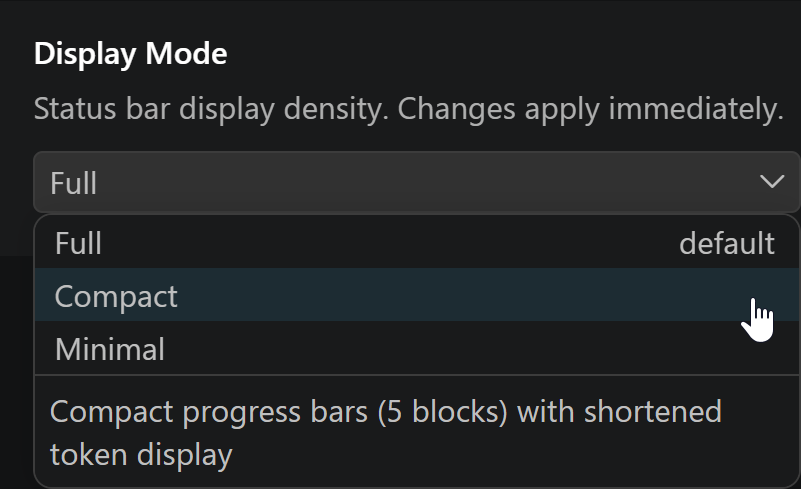
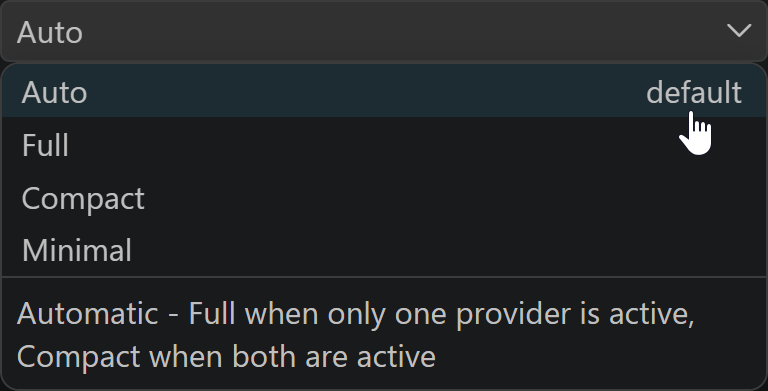
docs: friendlier README tone, slim CLAUDE.md to 40 lines, update display mode screenshot
README.md: drops technical CLI path language from the top description
("~/.claude/ or ~/.codex/" references gone) in favor of user-facing
wording - "three for Claude, three for Codex - all enabled out of the
box", "only shows widgets for the providers you actually use",
"Hidden when a provider isn't set up yet". Display Modes intro,
Provider Toggles, How It Works, and Reset WAT321 sections all get the
same friendlier voice pass. No technical content added, just tone.

CLAUDE.md: slimmed from 55 lines to 40 lines. Architecture section
migrated to AIDOCS/WD_WAT321_MEMORY_EXTENDED.md which is now the
canonical reference source for architecture, shared services, display
modes, build pipeline, and all polling-subsystem detail. CLAUDE.md
retains only the rules, principles, and hard conventions a new session
needs to read first.

images/screenshots/DISPLAY_MODE_SETTINGS.png: updated screenshot now
shows all four display modes (Auto default highlighted, plus Full,
Compact, Minimal) matching the post-v1.0.8 settings UI.

diff --git a/CLAUDE.md b/CLAUDE.md
@@ -2,8 +2,9 @@
 
 ## Read Order
 1. This file (rules and conventions)
-2. `AIDOCS/WD_WAT321_MEMORY_EXTENDED.md` (architecture, references, constraints)
-3. `WDDOCS/WAT321_FRAMEWORK/WAT321_FRAMEWORK_README.md` (framework details)
+2. `AIDOCS/WD_WAT321_MEMORY_EXTENDED.md` (architecture, file layout, shared services, display modes, all reference material)
+3. `WDDOCS/WAT321_FRAMEWORK/WAT321_FRAMEWORK_README.md` (per-tool framework detail)
+4. `AIDOCS/WD_WAT321_SESSION_HANDOFF.md` (current dev state)
 
 ## Project
 VS Code extension providing real-time AI usage status bar widgets (Claude + Codex).
@@ -12,43 +13,28 @@ VS Code extension providing real-time AI usage status bar widgets (Claude + Code
 - **Read-only** - never modify user files. Only writes are disposable caches, claims, and stamps in `~/.wat321/`
 - **No data collection** - no telemetry, no tracking, no analytics. All data stays local
 - **Never affect usage limits** - usage widgets hit a read-only stats endpoint. Session tokens read local files only
-- **Visible when relevant, hidden when not** - show a friendly status on error, but fully hide widgets for a provider whose CLI is not installed. No "Not Connected" placeholders for missing CLIs
+- **Visible when relevant, hidden when not** - show a friendly status on error, but fully hide widgets for a provider whose CLI is not installed
 - **Never imply action** - no login prompts, no CLI commands, no "click here to fix". All errors are passive and self-healing
 - **Auto-reconnect** - every error state recovers automatically. The user never needs to do anything
 - **Last known good** - on transient failures, keep showing cached data. Only surface errors after repeated failures
-- **Zero bloat** - all stored files under `~/.wat321/` (shared usage caches, atomic claim files) are tiny, disposable, and removable via the clear command. They are recreated automatically on the next poll
 - **Fail silently on first attempt** - absorb the first transient error, surface it only if it persists
+- **Zero bloat** - everything WAT321 writes is tiny, disposable, and clearable via the reset command
 
 ## Key Rules
-- **No user file modifications** - never write to ~/.claude/, ~/.codex/, or any user config
+- **No user file modifications** - never write to `~/.claude/`, `~/.codex/`, or any user config
 - **API rate limiting** - keep polling >=122s, cooldown >=61s. Never bypass cooldown
 - **No bundler** - tsc only, no external runtime deps
 - **CHANGELOG.md must be updated before any version bump.** Use `/wat321-publish` skill
-- **Commit messages are descriptive, not versioned.** Only changelog and version bump commits mention the version
+- **Commit messages are descriptive, not versioned.** Only changelog and version-bump commits mention the version
 - **No em dashes** - use hyphens throughout
 - **Error messages are passive** - friendly, short, no jargon
-
-## Architecture
-- Each tool gets its own folder under `src/`
-- Shared services in `src/shared/` - one polling path per API provider
-- All six tools active: Claude (5hr, weekly, session tokens) + Codex (5 hour, weekly, session tokens)
-- Settings gate: `wat321.enableClaude` (default true), `wat321.enableCodex` (default true)
-- Widgets are fully hidden when the corresponding CLI (`~/.claude/` or `~/.codex/`) is not installed. Exponential discovery backoff (60s -> 5 min -> 15 min) detects later installs
-- Display modes: Auto / Full / Compact / Minimal (instant switching via rebroadcast). Auto picks Full when one provider is active, Compact when both are active
-- Cross-instance coordination via `src/shared/coordinator.ts`: shared JSON cache + atomic claim file per provider under `~/.wat321/`. Only one window fetches per poll cycle; others adopt the cached state
-- Per-state cache freshness: long window for `ok`/`rate-limited`, short window for auth/error states so recovery propagates quickly across windows
-- Dynamic enable/disable - no window reload needed
-- All widgets are display-only - no click commands (except clear settings)
-- Session token tooltips use `isTrusted: false` for security
-- Widget constructors do NOT call `item.show()` - the first state delivered via `subscribe()` decides visibility, so missing-CLI widgets never flash on startup
-- Build pipeline: clean -> lint -> tsc
 
 ## Conventions
 - `package.json` `displayName` is `"WAT321"` only - never add "Willy's AI Tools" or any suffix (gets truncated in VS Code UI)
 - AIDOCS/ and WDDOCS/ are gitignored - not in repo
 - Branch naming: `WAT321_vX.X.X`
 - **Branch = version = changelog** - always in sync
-- Claude uses `5hr` in identifiers and display text
-- Codex uses `5hr` in identifiers, `5 hour` in display text
+- Claude uses `5hr` in identifiers and display text; Codex uses `5hr` in identifiers, `5 hour` in display text.
+  - **This drift is intentional and load-bearing.** Do not "fix" it - the display strings match what each CLI shows its own users. Locked.
 - Debug via F5 - Extension Development Host
 - Use `/wat321-publish` for the full release flow

diff --git a/README.md b/README.md
@@ -10,7 +10,7 @@
 
 Real-time AI usage widgets for your VS Code status bar.
 
-WAT321 ships with **six status bar widgets** for Claude and Codex. Both providers are enabled by default. Widgets for a provider are automatically hidden if its CLI (`~/.claude/` or `~/.codex/`) is not installed, so there is nothing to configure for a Claude-only or Codex-only setup.
+WAT321 ships with **six status bar widgets** - three for Claude, three for Codex - all enabled out of the box. WAT321 only shows widgets for the providers you actually use, so a Claude-only or Codex-only setup just works with nothing to configure. If you add the other provider later, its widgets show up automatically.
 
 ---
 
@@ -48,7 +48,7 @@ Monitors your Codex session's context window fill level. Same layout as Claude s
 
 ## Display Modes
 
-WAT321 supports four display densities. Search **"wat321"** in **Settings** to change.
+WAT321 supports four display densities. Search **"wat321"** in **Settings** and pick the one that fits how crowded you like your status bar.
 
 - **Auto** (default) - automatically picks Full when only one provider is active, Compact when both are active
 - **Full** - 10-block progress bars with all details
@@ -78,7 +78,7 @@ WAT321 supports four display densities. Search **"wat321"** in **Settings** to c
 
 ## Provider Toggles
 
-Both Claude and Codex widgets are enabled by default. Widgets are automatically hidden if the corresponding CLI is not installed, so you never see "Not Connected" placeholders. If you want to explicitly turn one provider off:
+Both Claude and Codex widgets are enabled by default. If a provider CLI is not installed, its widgets stay hidden automatically, so you never end up with "Not Connected" clutter. If you want to turn one provider off yourself:
 
 1. **File > Preferences > Settings** (`Ctrl+,` / `Cmd+,`) and search for **"wat321"**
 2. Uncheck **Enable Claude** or **Enable Codex** - widgets disappear immediately, no reload needed
@@ -100,7 +100,7 @@ You can show or hide individual widgets by right-clicking the status bar or usin
 - **Claude Usage** and **Codex Usage** poll their respective APIs on a safe interval (~2 minutes) with built-in rate-limit protection
 - **Session Tokens** (both providers) read local transcript files - no API calls, no network access
 - All data sources are **read-only** - WAT321 never modifies Claude, Codex, or user config files
-- **Hidden when you're not signed in** - if you don't have a Claude or Codex account set up in VS Code, those widgets stay out of the way. They appear automatically as soon as you sign in, no reload or restart needed
+- **Hidden when a provider isn't set up yet** - if Claude or Codex isn't installed on your machine, those widgets stay out of the way. They appear automatically as soon as the provider is ready, no reload or restart needed
 - Settings changes (enable/disable, display mode) take effect immediately - no window reload needed
 
 ## What It Doesn't Do
@@ -140,7 +140,7 @@ If a lockout occurs, the status bar will show "Offline" and the tooltip will dis
 
 ## Reset WAT321
 
-To start fresh, open the command palette (`Ctrl+Shift+P` / `Cmd+Shift+P`) and run **WAT321: Clear All Settings**, or check the **Reset WAT321** checkbox at the bottom of the WAT321 settings page. This resets all settings to defaults and clears stored data. WAT321 picks right back up on the next refresh, no restart needed.
+Need a clean slate? Open the command palette (`Ctrl+Shift+P` / `Cmd+Shift+P`) and run **WAT321: Clear All Settings**, or check the **Reset WAT321** box at the bottom of the WAT321 settings page. That restores WAT321 to its defaults, clears its saved local data, and lets everything rebuild automatically on the next refresh. No restart needed.
 
 ## Issues & Feedback
 
